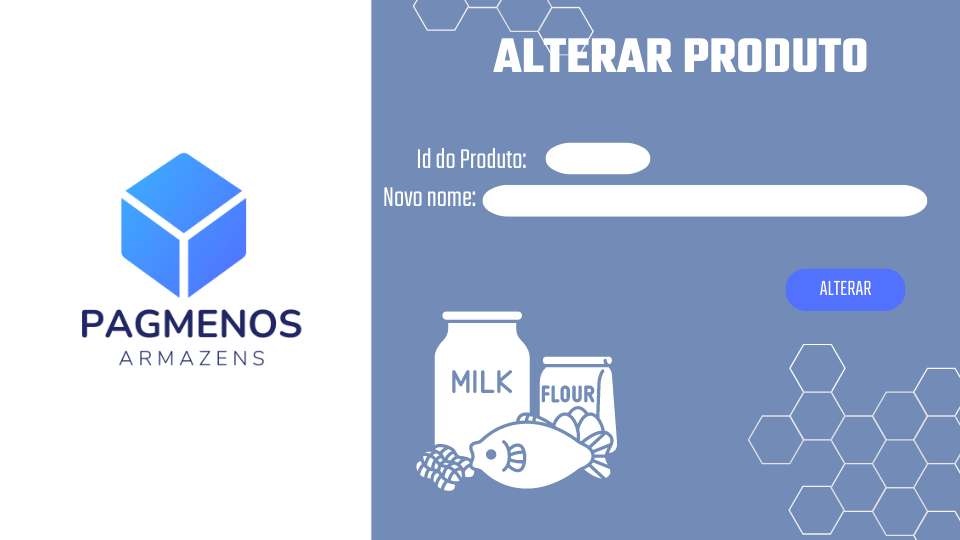
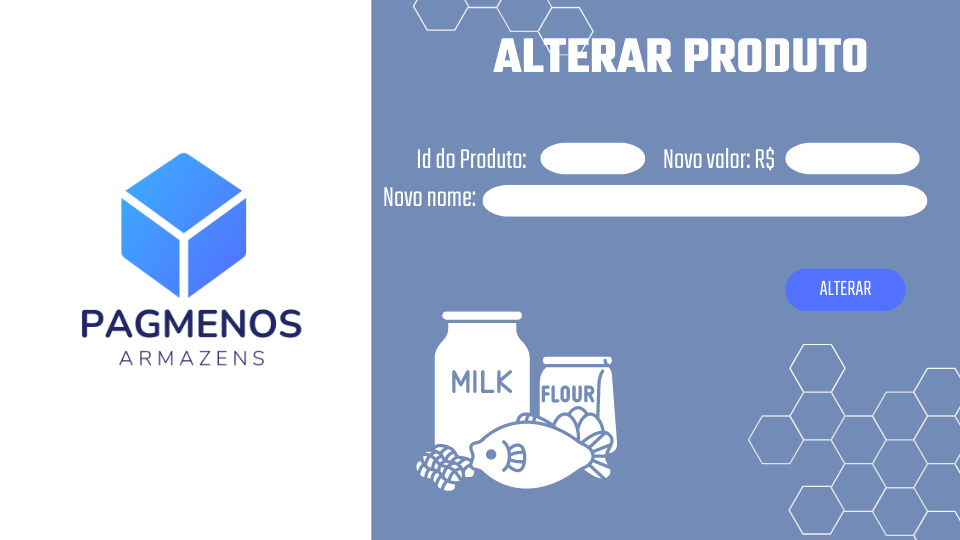
Atv's V1.16.3

Changed region(s): [[0.6562, 0.237, 0.9688, 0.3259], [0.5625, 0.2667, 0.5938, 0.3259]]

diff --git a/UC-05 - Desenvolver aplicações desktop/Gerenciador de Estoque - Full/Menu_CL.py b/UC-05 - Desenvolver aplicações desktop/Gerenciador de Estoque - Full/Menu_CL.py
@@ -2,6 +2,7 @@ from Back_CL import *
 from tkinter import *
 from tkinter import ttk
 import posiciona
+import webbrowser as web
 
 
 class Menu:  # classe que cria todo o front end
@@ -19,7 +20,7 @@ class Menu:  # classe que cria todo o front end
         # =======================================================================================
         # objetos e outras variaveis uteis
         style = ttk.Style()
-        style.configure("Treeview.Heading", font=('arial', 20))
+        style.configure("Treeview.Heading", font=('arial', 15, 'bold'))
         self.back = BackEnd()
         self.fundo = '#728BB7'
         self.branco = '#ffffff'
@@ -53,6 +54,10 @@ class Menu:  # classe que cria todo o front end
         img_confirmar = PhotoImage(file='Imagens/botao_confirma.PNG')
         img_recarrega = PhotoImage(file='Imagens/recarregar.PNG')
         img_botao_alterar = PhotoImage(file='Imagens/botao_alterar.PNG')
+        img_github = PhotoImage(file='Imagens/github.png')
+        img_insta = PhotoImage(file='Imagens/instagram.png')
+        img_twitter = PhotoImage(file='Imagens/twitter.png')
+        img_face = PhotoImage(file='Imagens/facebook.png')
         # ==========================================================================================
         # MENU PRINCIPAL
         # ----------------------------------------------------------------------------------------
@@ -67,10 +72,22 @@ class Menu:  # classe que cria todo o front end
         botao_prod = Button(self.frame_menu_ini, image=img_botao_prod, bd=0, activebackground=self.fundo,
                             command=lambda: [self.frame_menu_prod.pack(), self.frame_menu_ini.forget(),
                                              self.frame_menu_cadas.forget()])
+        botao_github = Button(self.frame_menu_ini, image=img_github, bd=0, activebackground=self.fundo, bg=self.fundo,
+                              command=lambda: web.open('https://github.com/Git-Eduardo-Henrique'))
+        botao_insta = Button(self.frame_menu_ini, image=img_insta, bd=0, activebackground=self.fundo, bg=self.fundo,
+                             command=lambda: web.open('https://www.instagram.com'))
+        botao_twitter = Button(self.frame_menu_ini, image=img_twitter, bd=0, activebackground=self.fundo, bg=self.fundo,
+                               command=lambda: web.open('https://twitter.com/?lang=pt-br'))
+        botao_face = Button(self.frame_menu_ini, image=img_face, bd=0, activebackground=self.fundo, bg=self.fundo,
+                            command=lambda: web.open('https://pt-br.facebook.com'))
         # ----------------------------------------------------------------------------------------
         #  Posições
-        botao_cadas.place(width=140, height=45, x=517, y=325)
-        botao_prod.place(width=138, height=50, x=789, y=326)
+        botao_cadas.place(width=140, height=45, x=510, y=325)
+        botao_prod.place(width=138, height=50, x=780, y=326)
+        botao_insta.place(x=530, y=460)
+        botao_face.place(x=578, y=460)
+        botao_github.place(x=626, y=460)
+        botao_twitter.place(x=674, y=460)
         menu.pack()
         # ----------------------------------------------------------------------------------------
         # ============================================================================================
@@ -128,6 +145,7 @@ class Menu:  # classe que cria todo o front end
         entry_nome = Entry(self.frame_cadas_prod, font='Arial 15 bold', bd=0)
         entry_quant = Entry(self.frame_cadas_prod, font='Arial 15 bold', bd=0)
         entry_id = Entry(self.frame_cadas_prod, font='Arial 15 bold', bd=0)
+        entry_valor = Entry(self.frame_cadas_prod, font='Arial 15 bold', bd=0)
         # ----------------------------------------------------------------------------------------
         # Button's
         botao_menu = Button(self.frame_cadas_prod, image=img_menu_botao, bd=0, activebackground=self.fundo,
@@ -138,14 +156,15 @@ class Menu:  # classe que cria todo o front end
                                                               self.frame_menu_cadas.pack()])
         botao_confirma = Button(self.frame_cadas_prod, image=img_confirmar, bd=0, activebackground=self.fundo,
                                 bg=self.fundo, command=lambda: self.back.cadastrar_produto(entry_nome, entry_quant,
-                                                                                           entry_id,
+                                                                                           entry_id, entry_valor,
                                                                                            self.frame_cadas_prod,
                                                                                            self.frame_menu_cadas))
         # ----------------------------------------------------------------------------------------
         #  Posições
-        entry_id.place(width=77, height=25, x=475, y=234)
-        entry_nome.place(width=409, height=26, x=129, y=178)
+        entry_id.place(width=75, height=24, x=199, y=281)
+        entry_nome.place(width=409, height=26, x=129, y=176)
         entry_quant.place(width=137, height=23, x=168, y=234)
+        entry_valor.place(width=117, height=26, x=414, y=232)
         botao_voltar.place(width=32, height=31, x=40, y=12)
         botao_confirma.place(width=122, height=42, x=420, y=313)
         cadas_prod.pack()
@@ -158,6 +177,7 @@ class Menu:  # classe que cria todo o front end
         # ----------------------------------------------------------------------------------------
         #  Entry's
         entry_nome_fabri = Entry(self.frame_cadas_fabri, font='Arial 15 bold', bd=0)
+        entry_cnpj = Entry(self.frame_cadas_fabri, font='Arial 15 bold', bd=0)
         # ----------------------------------------------------------------------------------------
         #  Button's
         botao_menu_cadas = Button(self.frame_cadas_fabri, image=img_menu_botao, bd=0, activebackground=self.fundo,
@@ -169,12 +189,13 @@ class Menu:  # classe que cria todo o front end
                                                               self.frame_menu_cadas.pack()])
         botao_confirma_fabri = Button(self.frame_cadas_fabri, image=img_confirmar, bd=0, activebackground=self.fundo,
                                       bg=self.fundo,
-                                      command=lambda: self.back.cadastrar_fabricante(entry_nome_fabri,
+                                      command=lambda: self.back.cadastrar_fabricante(entry_nome_fabri,  entry_cnpj,
                                                                                      self.frame_cadas_fabri,
                                                                                      self.frame_menu_cadas))
         # ----------------------------------------------------------------------------------------
         #  Posições
         botao_confirma_fabri.place(width=116, height=40, x=422, y=272)
+        entry_cnpj.place(width=356, height=26, x=132, y=223)
         entry_nome_fabri.place(width=420, height=23, x=130, y=178)
         botao_voltar.place(width=32, height=31, x=40, y=12)
         cadas_fabri.pack()
@@ -196,17 +217,19 @@ class Menu:  # classe que cria todo o front end
                                   bg='black', command=lambda: [self.back.listar(tabela)])
         # ----------------------------------------------------------------------------------------
         #  Treeview
-        tabela = ttk.Treeview(self.frame_prod_listar, columns=["id", "nome", "quant", "fabri"], selectmode='browse',
-                              show='headings')
+        tabela = ttk.Treeview(self.frame_prod_listar, columns=["id", "nome", "quant", "valor", "fabri"],
+                              selectmode='browse', show='headings')
         rolar = ttk.Scrollbar(self.frame_prod_listar, orient='vertical', command=tabela.yview())
         tabela.config(xscrollcommand=rolar.set)
-        tabela.column("id", width=10)
-        tabela.column("nome", width=150)
+        tabela.column("id", width=2)
+        tabela.column("nome", width=70)
         tabela.column("quant", width=30)
-        tabela.column("fabri", width=150)
+        tabela.column("valor", width=30)
+        tabela.column("fabri", width=70)
         tabela.heading("id", text='Id')
         tabela.heading("nome", text='Nome do produto')
         tabela.heading("quant", text='Quantidade')
+        tabela.heading("valor", text='Valores')
         tabela.heading("fabri", text='Fabricante')
         # ----------------------------------------------------------------------------------------
         #  Posições
@@ -225,6 +248,7 @@ class Menu:  # classe que cria todo o front end
         #  Entry's
         entry_id_prod = Entry(self.frame_prod_alterar, font='Arial 15 bold', bd=0)
         entry_novo_nome = Entry(self.frame_prod_alterar, font='Arial 15 bold', bd=0)
+        entry_novo_valor = Entry(self.frame_prod_alterar, font='Arial 15 bold', bd=0)
         # ----------------------------------------------------------------------------------------
         # Button's
         botao_menu_cadas = Button(self.frame_prod_alterar, image=img_menu_botao, bd=0, activebackground=self.branco,
@@ -237,13 +261,14 @@ class Menu:  # classe que cria todo o front end
         botao_confirma_fabri = Button(self.frame_prod_alterar, image=img_botao_alterar, bd=0,
                                       activebackground=self.fundo, bg=self.fundo,
                                       command=lambda: self.back.alterar_prod(entry_id_prod, entry_novo_nome,
-                                                                             self.frame_prod_alterar,
+                                                                             entry_novo_valor, self.frame_prod_alterar,
                                                                              self.frame_menu_prod))
         # ----------------------------------------------------------------------------------------
         #  Posições
         botao_confirma_fabri.place(width=125, height=40, x=785, y=270)
         entry_novo_nome.place(width=425, height=22, x=490, y=190)
-        entry_id_prod.place(width=81, height=25, x=557, y=145)
+        entry_id_prod.place(width=81, height=25, x=552, y=147)
+        entry_novo_valor.place(width=108, height=25, x=798, y=146)
         botao_voltar.place(width=32, height=31, x=40, y=12)
         prod_alterar.pack()
         # ----------------------------------------------------------------------------------------

diff --git a/UC-05 - Desenvolver aplicações desktop/Gerenciador de Estoque - Full/Data_CL.py b/UC-05 - Desenvolver aplicações desktop/Gerenciador de Estoque - Full/Data_CL.py
@@ -8,32 +8,32 @@ class Data:  # faz a conexão com o banco de dados e usa seus dados
         self.database = mys.connect(host='localhost', user='root', password='q1w2e3', database='Estoque')
         self.cursor = self.database.cursor()
 
-    def cadastro_produto(self, nome, quant, fabri):  # faz o cadastro do produto no banco
+    def cadastro_produto(self, nome, quant, fabri, valor):  # faz o cadastro do produto no banco
         try:
-            produto = SalvarProd(nome, quant, fabri)
-            self.cursor.execute(f'insert into Produtos (descricao, quantidade, codigo_fabri) '
-                                f'values ("{produto.nome}", "{produto.quant}", "{produto.fra}")')
+            produto = SalvarProd(nome, quant, fabri, valor)
+            self.cursor.execute(f'insert into Produtos (descricao, quantidade, valor, codigo_fabri) '
+                                f'values ("{produto.nome}", "{produto.quant}", "{produto.valor}", "{produto.fra}")')
             self.database.commit()
             showinfo('Cadastrado', 'Produto cadastrado com sucesso')
         except:
             showerror('Erro de id', 'fabricante desconhecido, verifique e tente novamente')
 
-    def cadastro_fabricante(self, nome):  # faz o cadastro do fabricante no banco
-        fabricante = SalvarFabri(nome)
-        self.cursor.execute(f'insert into Fabricantes (nome) values ("{fabricante.nome}")')
+    def cadastro_fabricante(self, nome, cnpj):  # faz o cadastro do fabricante no banco
+        fabricante = SalvarFabri(nome, cnpj)
+        self.cursor.execute(f'insert into Fabricantes (nome, cnpj) values ("{fabricante.nome}", "{fabricante.cnpj}")')
         self.database.commit()
 
     def listar(self, tabela):  # faz a listagem de todos os dados de todos os produtos
-        self.cursor.execute('select Produtos.id, Produtos.descricao,Produtos.quantidade, Fabricantes.nome '
-                            'from Produtos, Fabricantes where Fabricantes.codigo = Produtos.codigo_fabri')
+        self.cursor.execute('select Produtos.id,Produtos.descricao,Produtos.quantidade,Produtos.valor, Fabricantes.nome'
+                            ' from Produtos, Fabricantes where Fabricantes.codigo = Produtos.codigo_fabri')
         produtos = self.cursor.fetchall()
         tabela.delete(*tabela.get_children())
         for prod in produtos:
-            valores = [prod[0], prod[1], prod[2], prod[3]]
+            valores = [prod[0], prod[1], prod[2], prod[3], prod[4]]
             tabela.insert('', 'end', values=valores, tags='1')
 
-    def altera_produtos(self, cod, mudar, valor):  # altera o dado de descrição de um produto
-        self.cursor.execute(f'update Produtos set {mudar} = "{valor}" where id = {cod}')
+    def altera_produtos(self, cod, desc, valor):  # altera o dado de descrição de um produto
+        self.cursor.execute(f'update Produtos set descricao = "{desc}", valor = {valor} where id = {cod}')
         self.database.commit()
 
     def compra_venda(self, cod, mudar, quant):  # almenta ou diminui a quantidade de um produto

diff --git a/UC-05 - Desenvolver aplicações desktop/Gerenciador de Estoque - Full/Back_CL.py b/UC-05 - Desenvolver aplicações desktop/Gerenciador de Estoque - Full/Back_CL.py
@@ -5,29 +5,30 @@ class BackEnd:  # classe para realizar o back end
     def __init__(self):
         self.data = Data()
 
-    def cadastrar_produto(self, nome, quant, fabri, frame_cada, frame_menu):
+    def cadastrar_produto(self, nome, quant, fabri, valor, frame_cada, frame_menu):
         # cria uma janela para confirmar o cadastro de produtos
         if askyesno('Confirmar', 'Confirmar dados para o cadastro?'):
-            self.data.cadastro_produto(nome=nome.get(), quant=quant.get(), fabri=fabri.get())
+            self.data.cadastro_produto(nome=nome.get(), quant=quant.get(), fabri=fabri.get(), valor=valor.get())
             nome.delete(0, 'end')
             quant.delete(0, 'end')
             fabri.delete(0, 'end')
             frame_cada.forget()
             frame_menu.pack()
 
-    def cadastrar_fabricante(self, nome, frame_cada, frame_menu):
+    def cadastrar_fabricante(self, nome, cnpj, frame_cada, frame_menu):
         # cria uma janela para confirmar o cadastro de fabricante
         if askyesno('Confirmar', 'Confirmar dados para o cadastro?'):
-            self.data.cadastro_fabricante(nome=nome.get())
+            self.data.cadastro_fabricante(nome=nome.get(), cnpj=cnpj.get())
             nome.delete(0, 'end')
             frame_cada.forget()
             frame_menu.pack()
 
-    def alterar_prod(self, cod, nome, frame_cada, frame_menu):  # cria uma janela para confirmar a alteração de produtos
+    def alterar_prod(self, cod, nome, valor, frame_cada, frame_menu):  # cria uma janela para confirmar a alteração de produtos
         if askyesno('Confirmar', 'Confirmar alteração?'):
-            self.data.altera_produtos(cod=cod.get(), valor=nome.get(), mudar='descricao')
+            self.data.altera_produtos(cod=cod.get(), desc=nome.get(), valor=valor.get())
             cod.delete(0, 'end')
             nome.delete(0, 'end')
+            valor.delete(0, 'end')
             frame_cada.forget()
             frame_menu.pack()
 

diff --git a/UC-05 - Desenvolver aplicações desktop/Gerenciador de Estoque - Full/Salvar_CL.py b/UC-05 - Desenvolver aplicações desktop/Gerenciador de Estoque - Full/Salvar_CL.py
@@ -1,10 +1,12 @@
 class SalvarProd:  # Classe para salvar as informações dos produtos
-    def __init__(self, nome, quant, fra):
+    def __init__(self, nome, quant, fra, valor):
         self.nome = nome
         self.quant = quant
         self.fra = fra
+        self.valor = valor
 
 
 class SalvarFabri:  # Classe para salvar as informações dos fabricantes
-    def __init__(self, nome):
+    def __init__(self, nome, cnpj):
         self.nome = nome
+        self.cnpj = cnpj
